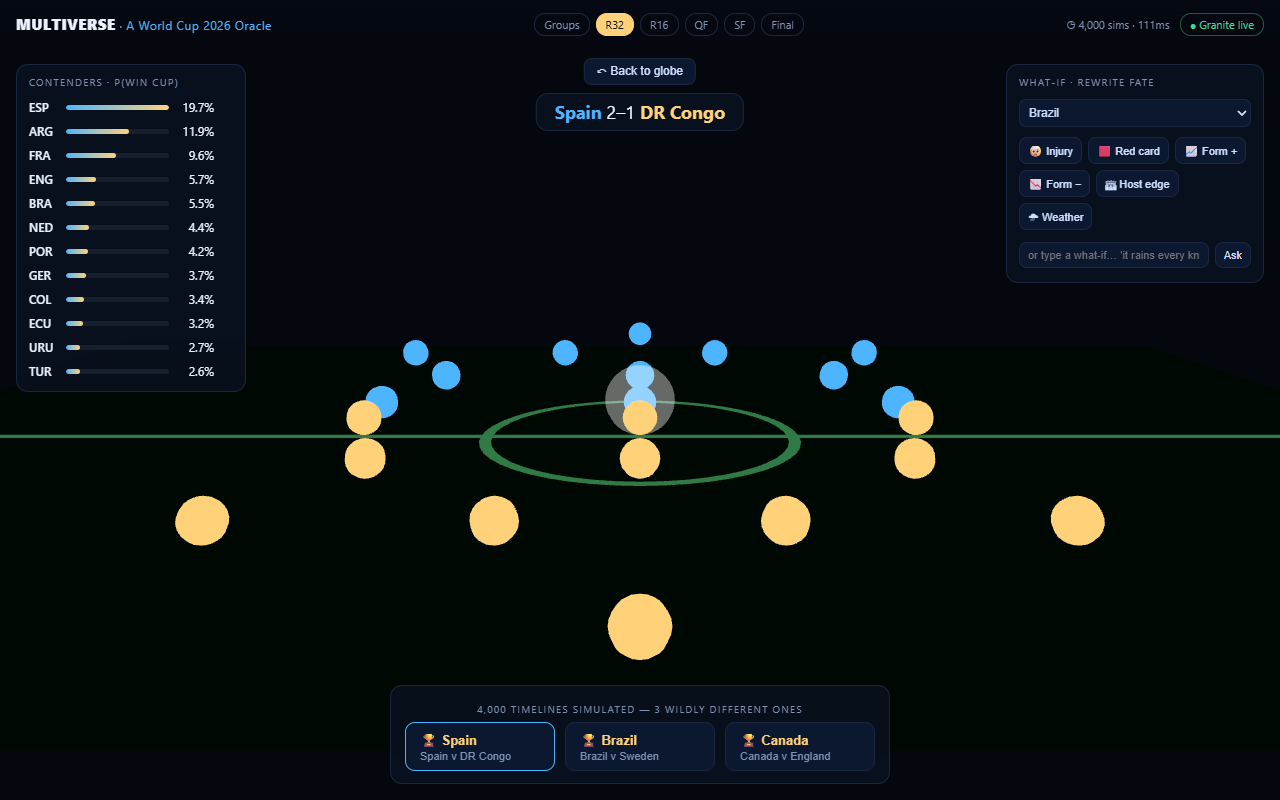
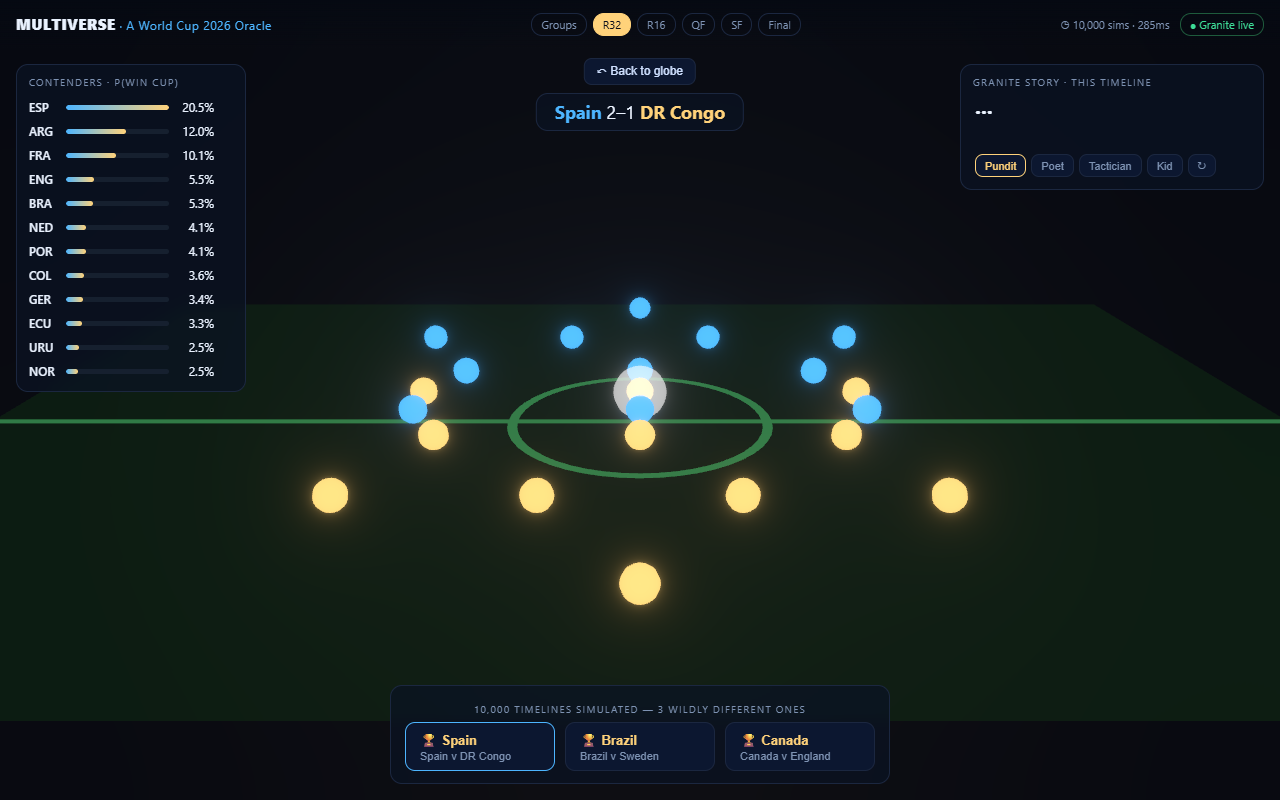
fix(scene): globe and stadium never coexist — conditional render + fade-mask dive (no more floating pitch); 4/4 e2e green

diff --git a/web/src/ui/FadeTransition.tsx b/web/src/ui/FadeTransition.tsx
@@ -1,0 +1,18 @@
+import { useEffect, useRef, useState } from 'react'
+import { useStore } from '../state/store'
+
+// On any view change, snap to black instantly (masking the globe<->stadium scene swap),
+// then fade back out — so the dive reads as "punch in, arrive at the pitch".
+export function FadeTransition() {
+  const view = useStore((s) => s.view)
+  const prev = useRef(view)
+  const [flash, setFlash] = useState(false)
+  useEffect(() => {
+    if (prev.current === view) return
+    prev.current = view
+    setFlash(true)
+    const id = requestAnimationFrame(() => requestAnimationFrame(() => setFlash(false)))
+    return () => cancelAnimationFrame(id)
+  }, [view])
+  return <div className={'fade' + (flash ? ' flash' : '')} aria-hidden />
+}

diff --git a/web/src/scene/Scene.tsx b/web/src/scene/Scene.tsx
@@ -3,16 +3,18 @@ import { Globe } from './Globe'
 import { Stadium } from './Stadium'
 import { ShockRing } from './ShockRing'
 import { CameraRig } from './CameraRig'
+import { useStore } from '../state/store'
 import { quality } from '../quality'
 
 export function Scene() {
+  const inStadium = useStore((s) => s.view) === 'stadium'
   return (
     <>
       <ambientLight intensity={0.45} />
       <pointLight position={[6, 4, 6]} intensity={1.1} />
-      <Globe />
-      <Stadium />
-      <ShockRing />
+      {!inStadium && <Globe />}
+      {!inStadium && <ShockRing />}
+      {inStadium && <Stadium />}
       <CameraRig />
       {quality.bloom && (
         <EffectComposer>

diff --git a/web/src/scene/CameraRig.tsx b/web/src/scene/CameraRig.tsx
@@ -1,7 +1,6 @@
 import { useEffect, useRef } from 'react'
 import { CameraControls } from '@react-three/drei'
 import { useStore } from '../state/store'
-import { STADIUM_POS } from './Stadium'
 
 // One rig that eases between named waypoints — the "one continuous world".
 export function CameraRig() {
@@ -18,8 +17,7 @@ export function CameraRig() {
     if (view === 'cold') {
       c.setLookAt(0, 4, 18, 0, 0, 0, animate)
     } else if (view === 'stadium') {
-      const [x, y, z] = STADIUM_POS
-      c.setLookAt(x, y + 2.6, z + 9.5, x, y + 0.4, z, animate)
+      c.setLookAt(0, 4.5, 11, 0, 0.3, 0, animate)
     } else {
       c.setLookAt(0, 1.2, 6.4, 0, 0, 0, animate)
     }

diff --git a/web/src/scene/Stadium.tsx b/web/src/scene/Stadium.tsx
@@ -3,8 +3,9 @@ import { useRef } from 'react'
 import { useFrame } from '@react-three/fiber'
 import { useStore } from '../state/store'
 
-// The stadium lives far below the globe; the camera dives down to it.
-export const STADIUM_POS: [number, number, number] = [0, -40, 0]
+// The stadium is centered at the origin and rendered ONLY in stadium view (the globe is
+// unmounted), so the two scenes never coexist; a fade masks the swap (see FadeTransition).
+export const STADIUM_POS: [number, number, number] = [0, 0, 0]
 const [SX, SY, SZ] = STADIUM_POS
 
 // 4-3-3 (attacking +z, in the −z half). [acrossX, alongZ]

diff --git a/web/src/App.tsx b/web/src/App.tsx
@@ -8,6 +8,7 @@ import { WhatIfDock } from './ui/WhatIfDock'
 import { ColdOpen } from './ui/ColdOpen'
 import { StadiumHud } from './ui/StadiumHud'
 import { StoryPanel } from './ui/StoryPanel'
+import { FadeTransition } from './ui/FadeTransition'
 import { useStore } from './state/store'
 import { useSim } from './sim/useSim'
 import { getRatings, getHealth } from './api/client'
@@ -34,6 +35,7 @@ export default function App() {
       <StadiumHud />
       <StoryPanel />
       <ColdOpen />
+      <FadeTransition />
     </div>
   )
 }

diff --git a/web/src/index.css b/web/src/index.css
@@ -105,3 +105,7 @@ html, body, #root { margin: 0; height: 100%; background: var(--bg); color: var(-
   padding: 4px 9px; font-size: 11px; cursor: pointer; text-transform: capitalize; }
 .voices button.on { color: var(--amber); border-color: var(--amber); }
 
+/* Scene transition mask (globe <-> stadium) */
+.fade { position: absolute; inset: 0; background: #05070f; opacity: 0; pointer-events: none; z-index: 30; transition: opacity 0.5s ease; }
+.fade.flash { opacity: 1; transition: none; }
+

diff --git a/DECISION-JOURNAL.md b/DECISION-JOURNAL.md
@@ -148,3 +148,13 @@ Built end-to-end, committing after every green gate. Final state:
 **Fix:** (a) added a `?hq=1` override so I could capture the true bloom-on render under automation; (b) replaced bars with **glowing surface dots sized by P(win)** — a node *on* the surface can't streak past the silhouette — plus camera-facing-hemisphere culling so only front nations light up (like city lights); (c) tuned bloom down (intensity 1.1→0.6, threshold 0.18→0.32) and thinned the atmosphere; (d) made the e2e suite **serial** (`workers:1`) after a parallel-load flake. Re-verified: 4/4 e2e green, and a captured *bloom-on* screenshot confirms the clean look.
 
 **Lesson recorded:** "verified" must mean *the artifact the user actually experiences*. A headless WebGL pass is necessary but not sufficient — a bloom-on visual capture has to be part of the loop, not an afterthought.
+
+---
+
+## 12 · Post-launch fix #2 — the "floating pitch under the globe"
+
+**Symptom (user-reported):** zooming only zoomed the globe, and the stadium pitch was visible floating *below* the globe; the "dive" just drifted down to a plane hanging under the planet.
+
+**Root cause:** I built globe and stadium as **one continuous scene** (globe at origin, stadium at y=−40, both always rendered) and flew the camera between them. The brainstorm's "seamless dive" was the intent, but in practice you saw both objects coexisting and a long drift through empty space.
+
+**Fix:** the two scenes now **never coexist** — `Scene` renders *only* the globe (views cold/globe) or *only* the stadium (view stadium), both centered at the origin, and a `FadeTransition` snaps to black instantly on the view change (masking the swap) then fades out. The dive now reads as "punch in → arrive at a full-frame pitch." Re-verified 4/4 e2e + a bloom-on capture of the clean stadium. (The elaborate one-take space→pitch dive remains the documented stretch goal; this masked cut is the honest, polished MVP version.)
